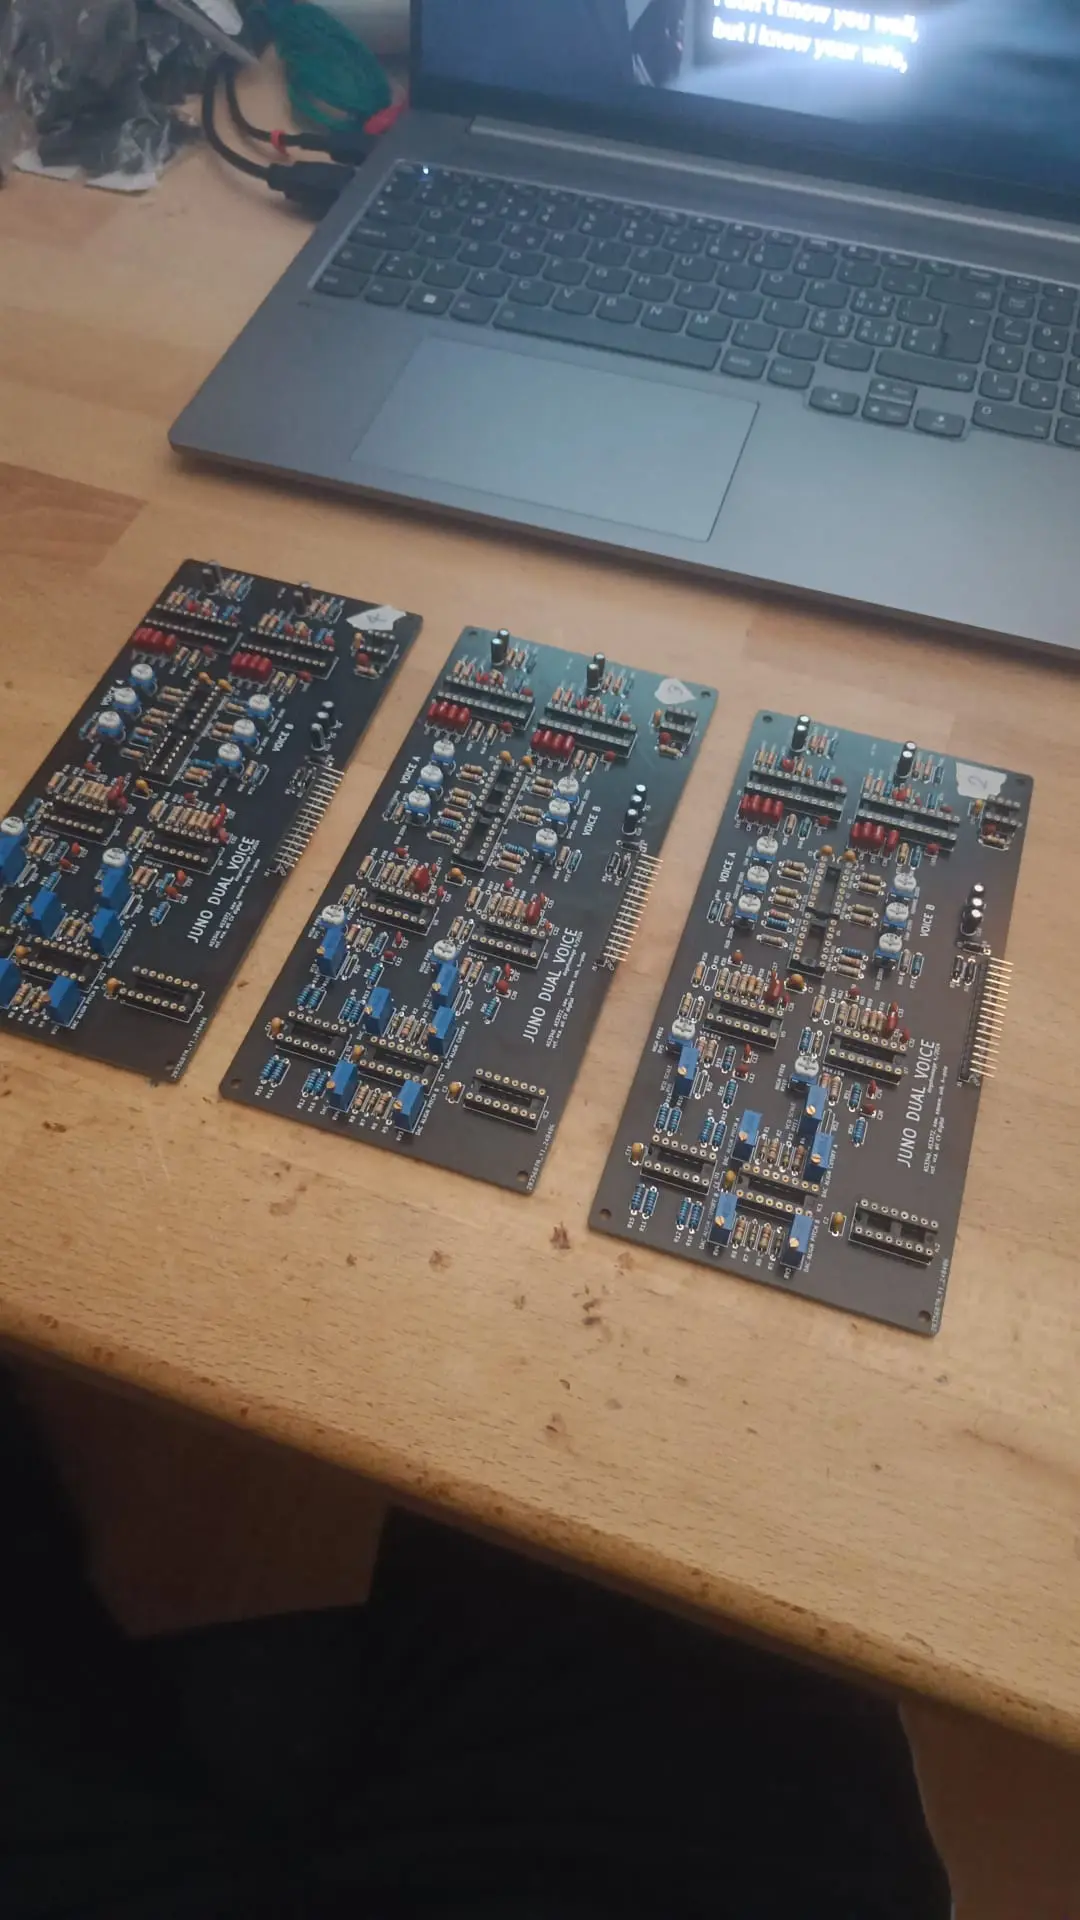
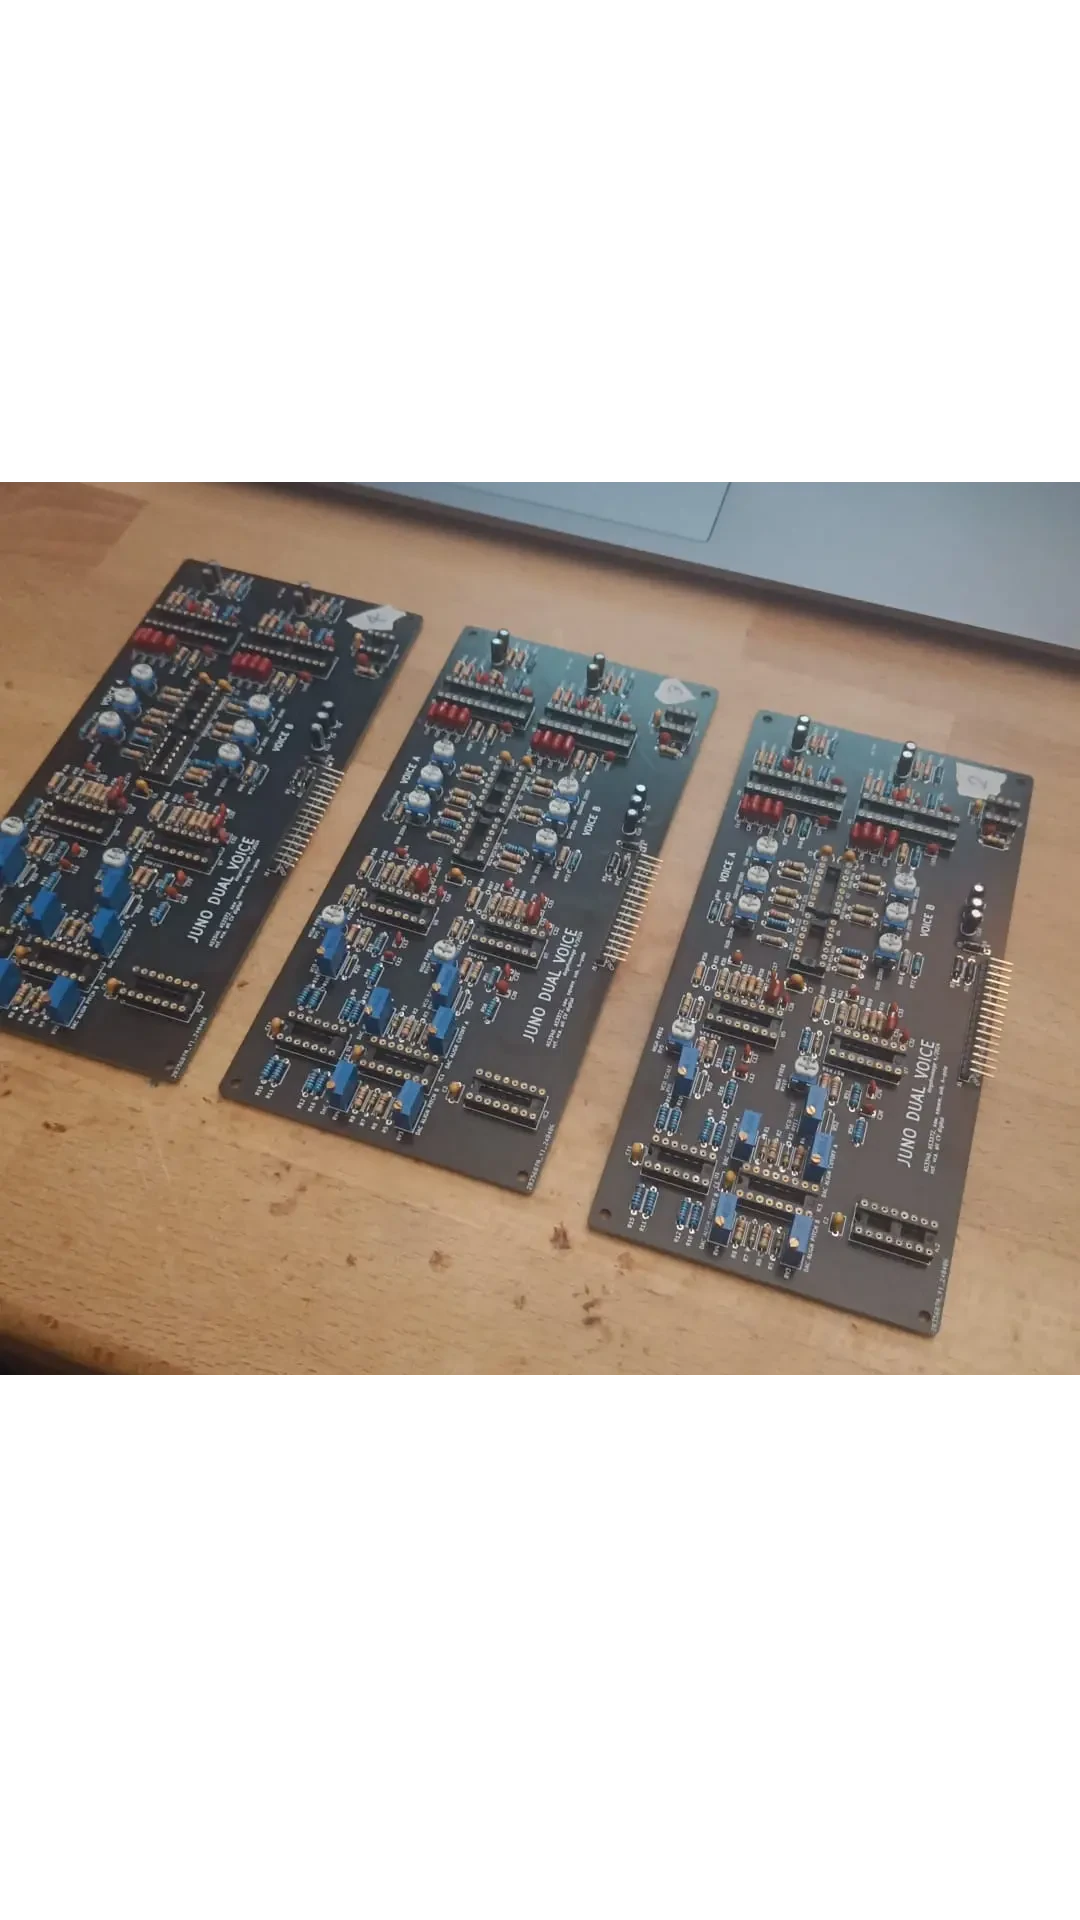
save, polysynth note done

diff --git a/app/globals.scss b/app/globals.scss
@@ -142,6 +142,10 @@ a {
     list-style-type: disc;
   }
 
+  ol {
+    list-style-type: decimal;
+  }
+
   li {
     margin-bottom: 0.5em;
   }

diff --git a/content/projects/polysynth.md b/content/projects/polysynth.md
@@ -6,19 +6,187 @@ featured: 1
 thumbnail: /polysynth/assembled.webp
 ---
 
-![CAD model of the enclosure](/polysynth/model.webp)
+With many previous synthesizer projects, monotonically increasing in complexity, I finally attempted my shot at a polyphonic analog synthesizer. Of course, it also needs to look nice, which is a large part of the process. 
 
-![CAD model of the panel](/polysynth/model_2.webp)
+Looking back at this project, it amazes me how much I learned during it. The idea came to me in a random lecture during my third Bachelor semester at ETH and now I am well into my Masters.
+
+![Finished synthesizer on its stand](/polysynth/final_top.jpeg)
+
+
+## Background
+
+The [Roland Juno](https://en.wikipedia.org/wiki/Roland_Juno-60) was a series of synthesizers released by Roland since the 1980s. Compared to its big brother, the Roland Jupiter series, the Juno was a more affortable model, by reducing the number of features. However, the precise layout and slider ranges make the Juno "hard to sound bad" while other synthsizers can get quite hard to control.
+
+Compared to other analog polysynths, the early Junos are minimalistic with only six voices, a single oscillator and a single envelope for both filter and amplifier. All of that does not matter in regards of the praised chorus section, producing a warm and smooth widening effect. The Juno also featured a pattern storage, letting a user store certain slider positions for later recall.
+
+Analog polysynths are expensive and complicated to build since they essentially feature multiple copies of monophonic analog synthesizers on multiple boards. Furthermore, the panel settings can not be controlled using simple potentiometers, but rather must be set by digitally controlled switches, digitally controlled resistors or digital to analog converters. All of those are controlled by a master board with a microcontroller.
+
+## Design
+
+For the simplicity and the beloved sound, I chose to imitate the Juno's design as I did with the [Minimoog clone in the past](minimoog_clone). However, I added my own twist. The synthesizer is named after Ευρυδίκη (Evridiki or Eurydice) from [Greek mythological tale](https://en.wikipedia.org/wiki/Eurydice) of her and her husband Orpheus, in which Orpheus descends into Hades to save her using his enchanting music.
+
+The number of voices was rounded up to a practical eight instead of six. Also, I added a sequencer section in addition to the arpeggiator, which has worked out pretty well.
+
+The synthesizer was modeled in Solidworks and the electronics were designed in KiCad. The entire design was built around an old salvaged keybed from an old MIDI keyboard of my friend (shoutout to [Jylorant](https://www.jylorant.com/)).
+
+The chassis is built from wood with solid endpieces and the two panels are mounted on top. The four voice boards with the mainboard are at the heart of the synth. The top PCB screws into the top panel directly.
+
+![Testing](/polysynth/testing.webp#medium)
+
+## Electronics
+
+The electronics are of course the key part of this project, since building an analog synthesizer involved creating all the circuitry of the main sound generation with analog components, istead of simulating it digitally as it is done in virtual instruments on the computer. Therefore, I created four voice board copies, each featuring two voices on it. This connects to a main board using headers. Another massive board is needed underneath all of the front panel more as a structural support for the faders and switches on the front panel.
+
+The professional made circuits where designed in KiCad and ordered via JLCPCB. The front panel circuits were not. More on this later...
+
+### Voice Board
+
+Here, I spent a lot of time designing the voice board first on paper. Choosing the right components drastically simplifies the design. A big simplification step was using compact ICs designed for use in analog synthesizers. Also, all of the modulation like envelopes, LFOs and their mixing is done digitally. The main audio signal however is still created analog. This was done similarly in the Juno, which used even more drastic measures with their digitally timed oscillator chips. Offloading the modulation to the code also allows tuning the modulation a lot for ease of use and adjusting the ranges of values. This sounds very boring in text but it really makes a difference when using the thing.
+
+![Voice inner](/polysynth/voice.png#medium "The inner voice section, which is placed twice. It houses the main synthesis for one voice.")
+
+![Voice outer](/polysynth/voice_outer.png#medium "The outer section with the DACs and mixing of the dual voice card")
+
+For a background in subtractive synthezis with analog circuits, my [Matura paper and the page on my Minimoog clone](/p/minimoog_clone) is a good summary. Similarly to there, I chose the AS3340 as my VCO chip. A chip that drastically simplifies the analog voice is the AS3372. It is perfect for my purpose, since it can be configured as a dual input mixer followed by a four-pole resonant VCF and finally a VCA. Combined with the AS3340 VCO this gives us a whole voice using only two DIP-16 chips. 
+
+For the extra features of the Juno-style voice section, we need a suboscillator, which can be constructed using a D-Flip-Flop that halfs the square wave to be an octave lower. The DG441 digital switch lets us toggle the square and saw waveforms to enable none, one each or both at once.
+
+The interesting part of this voice card is rather the source of control voltages. While other vintage synths use a single DAC followed by multiplexers and sample and hold circuits, I found that way to cumbersome. Therefore, I looked for a cheap DAC, where I settled for the LTC1665 with eight separate eight-bit outputs. 8 bits is too little for pitch control. Therefore, one of them is used for eight-bit control voltages and the other for four times sixteen-bit pitch control voltages. The four high-precision outputs are used for pitch and VCF-cutoff on both voices. VCFs with sustaining resonance can be played as a note and thus need precise pitch control as well.
+
+![Voice board](/polysynth/board_voice.webp#medium "A finished dual-voice card (chips are missing in photo)")
+<!-- ![Finished boards](/polysynth/finished_boards.webp "Three of the four voice cards") -->
+
+### Mainboard
+
+<figure class="medium">
+    <video src="/polysynth/design.mp4" controls preload="metadata"></video>
+    <figcaption>This is me first getting the voice to run with MIDI over USB. I started out building a single voice board first and only later I started designing the mainboard around it. The video also shows a makeshift power supply plugged into the breadboard with the Teensy and a simple audio output.</figcaption>
+</figure>
+
+![Mainboard teensy](/polysynth/mainboard_teensy.png "Mainboard Teensy ports and front and backpanel cable plugs.")
+
+The mainboard centers around a Teensy 4.1 microcontroller. This is basically like an Arduino but more powerful and with tons of IO features.
+
+![Mainboard keyboard matrix circuit](/polysynth/mainboard_keyboard.png "Keyboard matrix driver")
+
+As most MIDI keyboards which I have used, so does this one feature a button matrix with series connected diodes. Therefore, it can be connected using two 74hc595 shift registers and two 4051 multiplexers.
+
+![Mainboard MIDI circuit](/polysynth/mainboard_midi.png "Standard MIDI triplet: IN, OUT and THRU")
+ 
+Of course, we also need MIDI. This circuit is quite standard and connects to the some UART on the microcontroller. The optocoupler is required to Galvanicly isolate other MIDI devices and prevent unsafe ground loops.
+
+![Mainboard voices circuit](/polysynth/mainboard_voices.png "Voice cards, mixing and tuning feedback")
+
+Now, the four voice cards plug into headers at 90-degree angles. The four audio signals get summed up using an op-amp and the other side of the op-amp is used for the tuning feedback circuit. It is configured as Schmitt-Trigger, to not double count a rising edge. 
+
+For precise tuning, the voice can be configured to output an unmodulated square wave with filter fully opened. The microcontroller then counts the number of rising edges and can thus fit a regressive model to the pitch curve, creating a precise tuning. The same thing can be done for the filters sustained resonance, where all other oscillators are disabled.
+
+![Mainboard chorus circuit](/polysynth/mainboard_chorus.png "The stereo chorus circuit")
+
+The chorus is the most complicated bit of the mainboard. I myself only understand parts of it and it also never worked 100%. But it does sound like a chorus and that's what matters.
+
+The circuit is a stereo chorus built around two MN3207 1024-stage bucket-brigade devices. Each audio channel thus gets one chorus mixed to the original signal creating a wide stereo effect when enabled. The BBDs are controlled via two 4046 VCO chips. This setup was mixed together from many circuits I found online. I cannot trace it back to a single source. 
+
+The later mixing stage was designed by me, where a further DG441 allows the user to select different the four chorus modes using switches like in the original Juno. What the chorus also needs is the delay time shifting slowly with around 1-10 Hertz. This is achieved by a MCP4802 two-channel DAC that controls the frequencies of the 4046 clocks. The three chorus settings on the synth (without the off-setting), mainly provide different amplitudes of mixed in chorus via the DG441 but also different modulation frequencies, depths and phase offsets between both channels. There is a vast number of possibilities of course, but I mainly chose a few at random giving essentially three options at different intensities of chorus.
+
+
+![Mainboard audio output circuit](/polysynth/mainboard_volume.png "The final output stage and volume control")
+
+At last, the output section is comprised of a single PGA2311 stereo volume control chip. This IC is rather expensive but I still chose it for the following reasons: 
+    
+1. I want to create a stereo output signal with the ideal line out impedance, for which I did not want to endlessly research for. 
+2. The output of my synthesizer should not break some other expensive audio equipment it is plugged into.
+3. The chip should offer a very large exponential range of output volumes without distorting or clipping.
+
+For that, the IC is ideal and it does exactly that.
+
+![Mainboard power](/polysynth/mainboard_power.png "The mainboard power section.")
+
+Power can not be neglected and high quality audio devices require a very steady power line to mitigate noise. Also, to minimally deal with wall power voltages, I used a premade internal power supply unit that converts wall power to three rails: -15V, +5V and +15V. This is almost perfect since the synth chips usually take -5V and +15V while the digital electronics can use the +5V rail. The -5V rail however had to be regulated town using an 7905 LDO. The some analog parts also needed +5V and thus I created a second +5V rail with another LDO to minimize digital and analog crosstalk, especially since many LEDs are turned on and off which will likely lead to audible noise in the output. The chorus BBD chips require +9V. Thus another LDO was needed. Since analog audio currents stay very low, the LDOs are fine and do not overheat. Still I added small heatsinks.
+
+### Panel Electronics
+
+The main panel mainly serves as structural component, holding the sliders, switches and LEDs in place and resisting the pushing force on the panel. In consumer electronics, this is usually a cheap single or double sided large PCB that mounts to the bottom of the panel.
+
+Creating the panel myself was quite intense. It started out with me realizing that ordering a 800mm wide panel was not that realistic and affortable. So I attempted to etch my own, which I have never tried before. I found a store selling around 30cm large plates of single sided FR4 PCBs. Three of those tied together could solve my problem.
+
+![Panel schematic](/polysynth/panel_schem.png "A section of the schematic of the panel. The whole circuit is quite similar with repeated 4051 muxes or the occasional 74hc595 shift register for the LEDs.")
+
+![Panel pcb all](/polysynth/panel_pcb.png "The entire panel PCB drawing can be seen here. On the bottom left is the pcb for the pitchbend wheel. The ruler shows the scale, the main PCB is almost 800mm in length.")
+
+![Panel pcb close up](/polysynth/panel_pcb_cursed.png "This close up shows my backside-only routing, where certain panel elements contain connections as well, such as the ground connection around the sliders body. Across the three boards, I had to bridge the signals via lots of wire.")
+
+<figure class="medium">
+    <video src="/polysynth/etching_test.mp4" controls preload="metadata"></video>
+    <figcaption>Here you can see me trying an etching solution made with sodium persulfate. This did not work however, since the liquid must be heated to around 50 degress Celsius, which I was not able to set up at that time. I later ordered ferric chloride which works in cold weather as well. Also, my improvised rocking plate works quite poorly.</figcaption>
+</figure>
+
+Another issue was getting the print on. To not have to deal with transfers or photo-resist films, I just chose to paint it on. The traces can be quite rough since I have tons of space. So I tested multiple pens to see which has the best etch-resistance (STAEDTLER Lumocolor was best, but I think buying one designed for the job would have been even better).
+
+So hand punched little marks into the copper showing the pins via a printed out version of the schematic. Then I painted on all the traces. This was fun!
+
+![Etched boards](/polysynth/etching_2.webp "The painted on traces. This is my tribute to H.R. Giger.")
+
+![Etching a board](/polysynth/etching.webp "After etching in ferric chloride. It worked 99%, there where some little things I had to correct.")
+
+The holes I later drilled with a small drill press and tiny bits I ordered online. I got very close to breaking the last bit but thankfully I did not.
+
+## Firmware
+
+The firmware for the Teensy 4.1 carries a lot of the complexity of the project. Still, it is mostly boring low level code. The firmware does however have to do all the following things at once without blocking or delaying:
+ 
+- Program all 8 DACs with each 8 channels at a rate of around 500 Hertz, where fast modulation is possible and latency is negligible
+- Receive and send MIDI nodes and precise clock signals
+- Read the panel and control the LEDs
+- Load and save patches
+- Do tuning
+- Simulate the virtual modulation sources
+- Manage the complex behaviour and state of the arpeggiator or sequencer without blocking the execution
+
+What helped a lot when designing the code was to encapsulate behaviour into object-oriented classes with meaningful purposes. This diagram shows the overall relationships between the classes:
+
+![Diagram of firmware classes](/polysynth/synth_overview_seed04.svg)
+
+You can explore or use [the code freely on GitHub](https://github.com/dogefromage/polysynth). I want to list a few interesting sections here without boring you:
+
+[tuning.cpp](https://github.com/dogefromage/polysynth/blob/master/src/tuning.cpp) starts tuning the oscillators one by one upon request on the front panel. This is the only routine that is blocking, i.e. stops everything else the synth is doing. The tuning works by attaching an interupt to the tuning input pin that counts each edge in a given precisely timed window. After measuring a range of inputted vs measured frequencies, a order two polynomial i.e. a parabola is fitted to the values and stored in a tuning profile that gets loaded every start of the synth. Therefore, the synth only has to tune sometimes,mostly it stays in tune.
+
+In [instrument.cpp](https://github.com/dogefromage/polysynth/blob/master/src/instrument.cpp) most of the fun stuff is happening, such as Voice::update(...) and Instrument::update(...) which both contain the main logic that feeds the panel values into the digitally simulated LFO and envelope and then calculates the final six DAC voltages pitch, cutoff, resonance, pulse_width, sub and volume.
+
+[player.cpp](https://github.com/dogefromage/polysynth/blob/master/src/player.cpp) is definitely my least favorite file to have worked on. It contains the layer in between the keyboard sending a key and the synthesizer reading it and thus handles the arpeggiators and sequencers behaviour. It is very prone to bugs and edge cases that sometimes I have only noticed way later.
+
+[panel.cpp](https://github.com/dogefromage/polysynth/blob/master/src/panel.cpp) is nice since it reads the panels faders and looks funny in code. With some clever macros, I was able to simplify the fader logic quite well. Panel::update() contains the heart of the panels logic and how the faders actually behave to the user, which can be underestimated quite easily.
+
+## Chassis
+
+This part was the most fun, as with many wood projects. On the lasercutter in my universities makerspace, I cut out small fins and endpiece mounts. Those give the chassis high strength and cut the weight down drastically compared to earlier projects of mine. The large pieces are plywood and the two endblocks are some hard wood I found in a scrap bin. I screwed them in from the inside using large M6 inserts for high stability and an untouched outside.
+
+The shell is painted black and the end pieces are stained with Mahogany woodstain (Beize in German). Then I added multiple layers of clearcoat with interlaced sanding.
+
+![Making the chassis](/polysynth/me.webp#medium)
+
+![Finished synthesizer from the side](/polysynth/final_side.jpeg#medium)
+
+## Panels
+
+The panels puzzled me for a while. I could not produce panels like the ones from the Juno myself. In previous synths, I only had to cut them along the outside and drill holes. But now, I have to create many slots into the panel and do precise bends along the edges. I attempted to use a CNC at my secondary school, which I spend a lot of time setting up because no one knew how to, until I broke a few bits and eventually gave up. Finally, I contacted my local metal worker business and asked them for an offer, which came to below 200 CHF, which suprised me as I thought it would be much more...
+
+![CAD model of the panel](/polysynth/model_2.webp#medium "Solidworks model of the main panel")
+
+## Demos
+
+
+
+
+
+
+![CAD model of the enclosure](/polysynth/model.webp)
 
 ![Parts](/polysynth/parts.webp)
 
-![Etched boards](/polysynth/etching_2.webp)
 
-![Etching a board](/polysynth/etching.webp)
 
-![Voice board](/polysynth/board_voice.webp)
 
-![Finished boards](/polysynth/finished_boards.webp)
 
 ![Keyboard](/polysynth/keyboard.webp)
 
@@ -32,9 +200,7 @@ thumbnail: /polysynth/assembled.webp
 
 ![Screen print exposure](/polysynth/print_exposure.webp)
 
-![Fitting the panel to the case](/polysynth/me.webp)
 
-![Testing](/polysynth/testing.webp)
 
 ![Assembled synthesizer](/polysynth/assembled.webp)
 
@@ -44,9 +210,6 @@ thumbnail: /polysynth/assembled.webp
 
 ![Logo on the finished synthesizer](/polysynth/final_logo.jpeg)
 
-<video src="/polysynth/design.mp4" controls preload="metadata"></video>
-
-<video src="/polysynth/etching_test.mp4" controls preload="metadata"></video>
 
 <video src="/polysynth/painting_ugly.mp4" controls preload="metadata"></video>
 
@@ -61,3 +224,28 @@ thumbnail: /polysynth/assembled.webp
 <video src="/polysynth/testing_3.mp4" controls preload="metadata"></video>
 
 <video src="/polysynth/testing_4.mp4" controls preload="metadata"></video>
+
+
+![Finished synthesizer on its stand](/polysynth/final_top_2.jpeg)
+
+![Finished synthesizer on its stand](/polysynth/final_top_3.jpeg)
+
+![Finished synthesizer on its stand](/polysynth/final_top_4.jpeg)
+
+![Finished synthesizer from the side](/polysynth/final_side_2.jpeg)
+
+![Finished synthesizer from the side](/polysynth/final_side_3.jpeg)
+
+![Back of the finished synthesizer](/polysynth/final_back_2.jpeg)
+
+![Connectors on the back panel](/polysynth/final_io.jpeg)
+
+![Clock, arpeggio and sequence controls](/polysynth/final_control.jpeg)
+
+![LFO, VCO, VCF and VCA sliders](/polysynth/final_gen.jpeg)
+
+![VCF, VCA, envelope and chorus sections](/polysynth/final_env.jpeg)
+
+![Program storage section](/polysynth/final_storage.jpeg)
+
+![Pitch bend wheel and left end of the panel](/polysynth/final_wheel.jpeg)

diff --git a/content/projects/minimoog_clone.md b/content/projects/minimoog_clone.md
@@ -2,8 +2,8 @@
 title: Building a vintage analog synthesizer - Clone of Minimoog Model D
 navTitle: Minimoog Synthesizer Clone
 year: 2020
-featured: 3
-thumbnail: /synth_front.jpg
+# featured: 3
+# thumbnail: /synth_front.jpg
 ---
 
 <p class="text-lg"><a href="/building_an_analog_synthesizer_compressed.pdf">&gt;&gt;&gt; Download my matura paper &lt;&lt;&lt;</a></p>
